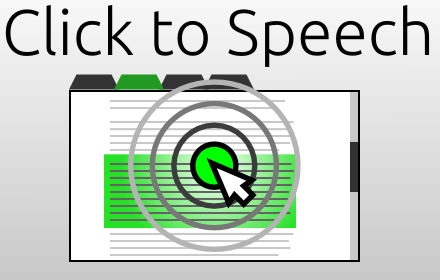
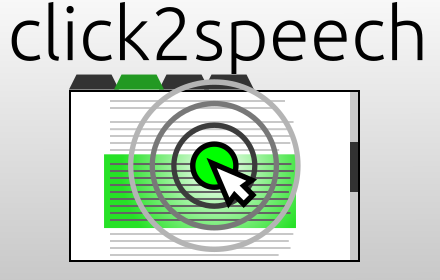
rename to click2speech #88

Changed region(s): [[0.0, 0.0, 0.975, 0.2571]]

diff --git a/chrome/options/options.css b/chrome/options/options.css
@@ -14,12 +14,21 @@ body {
 
 /* ===================================== header =====================================*/
 .header {
-	padding: 0.5em 3em;
+	padding: 0.5em 2em;
 	background-color: #f8f8f8;
+}
+
+.header-title {
+	display: inline-block;	/* so logo fits next to h1 */
+	margin: .2em 0;
+	font-family: sans-serif;
+	font-size: 4em;
+	font-weight: 200;
 }
 
 .header-logo {
 	height: 6em;
+	margin: 0 0 -2em 0;
 }
 
 /* ===================================== nav-bar =====================================*/

diff --git a/chrome/options/html/contact.html b/chrome/options/html/contact.html
@@ -4,5 +4,5 @@
 </div>
 <div class="setting hoverable">
 	<div>{{'support' | translate}}</div>
-	<a href="mailto:{{supportEmail}}?subject=Click to Speech question" ng-click="onContactClick('support')">{{supportEmail}}</a>
+	<a href="mailto:{{supportEmail}}?subject=click2speech question" ng-click="onContactClick('support')">{{supportEmail}}</a>
 </div>

diff --git a/chrome/options/html/options.html b/chrome/options/html/options.html
@@ -15,6 +15,7 @@
 	<body>
 		<div class="container">
 			<div class="header">
+				<h1 class="header-title">click2speech</h1>
 				<img class="header-logo" src="../img/logo.png"/>
 			</div>
 			<ng-include src="'navigationBar.html'"></ng-include>

diff --git a/README.md b/README.md
@@ -1,6 +1,6 @@
-Click to Speech
+click2speech
 ===============
 
-Chrome plugin that helps the visually impaired browsing the web.
+Chrome extension to help the visually imparied and those with dyslexia.
 
-Click on a paragraph and ClickToSpeech reads it out to you. You can also navigate using the arrow keys and start reading by pressing the spacebar.
+Click on a text and click2speech reads it out to you.
